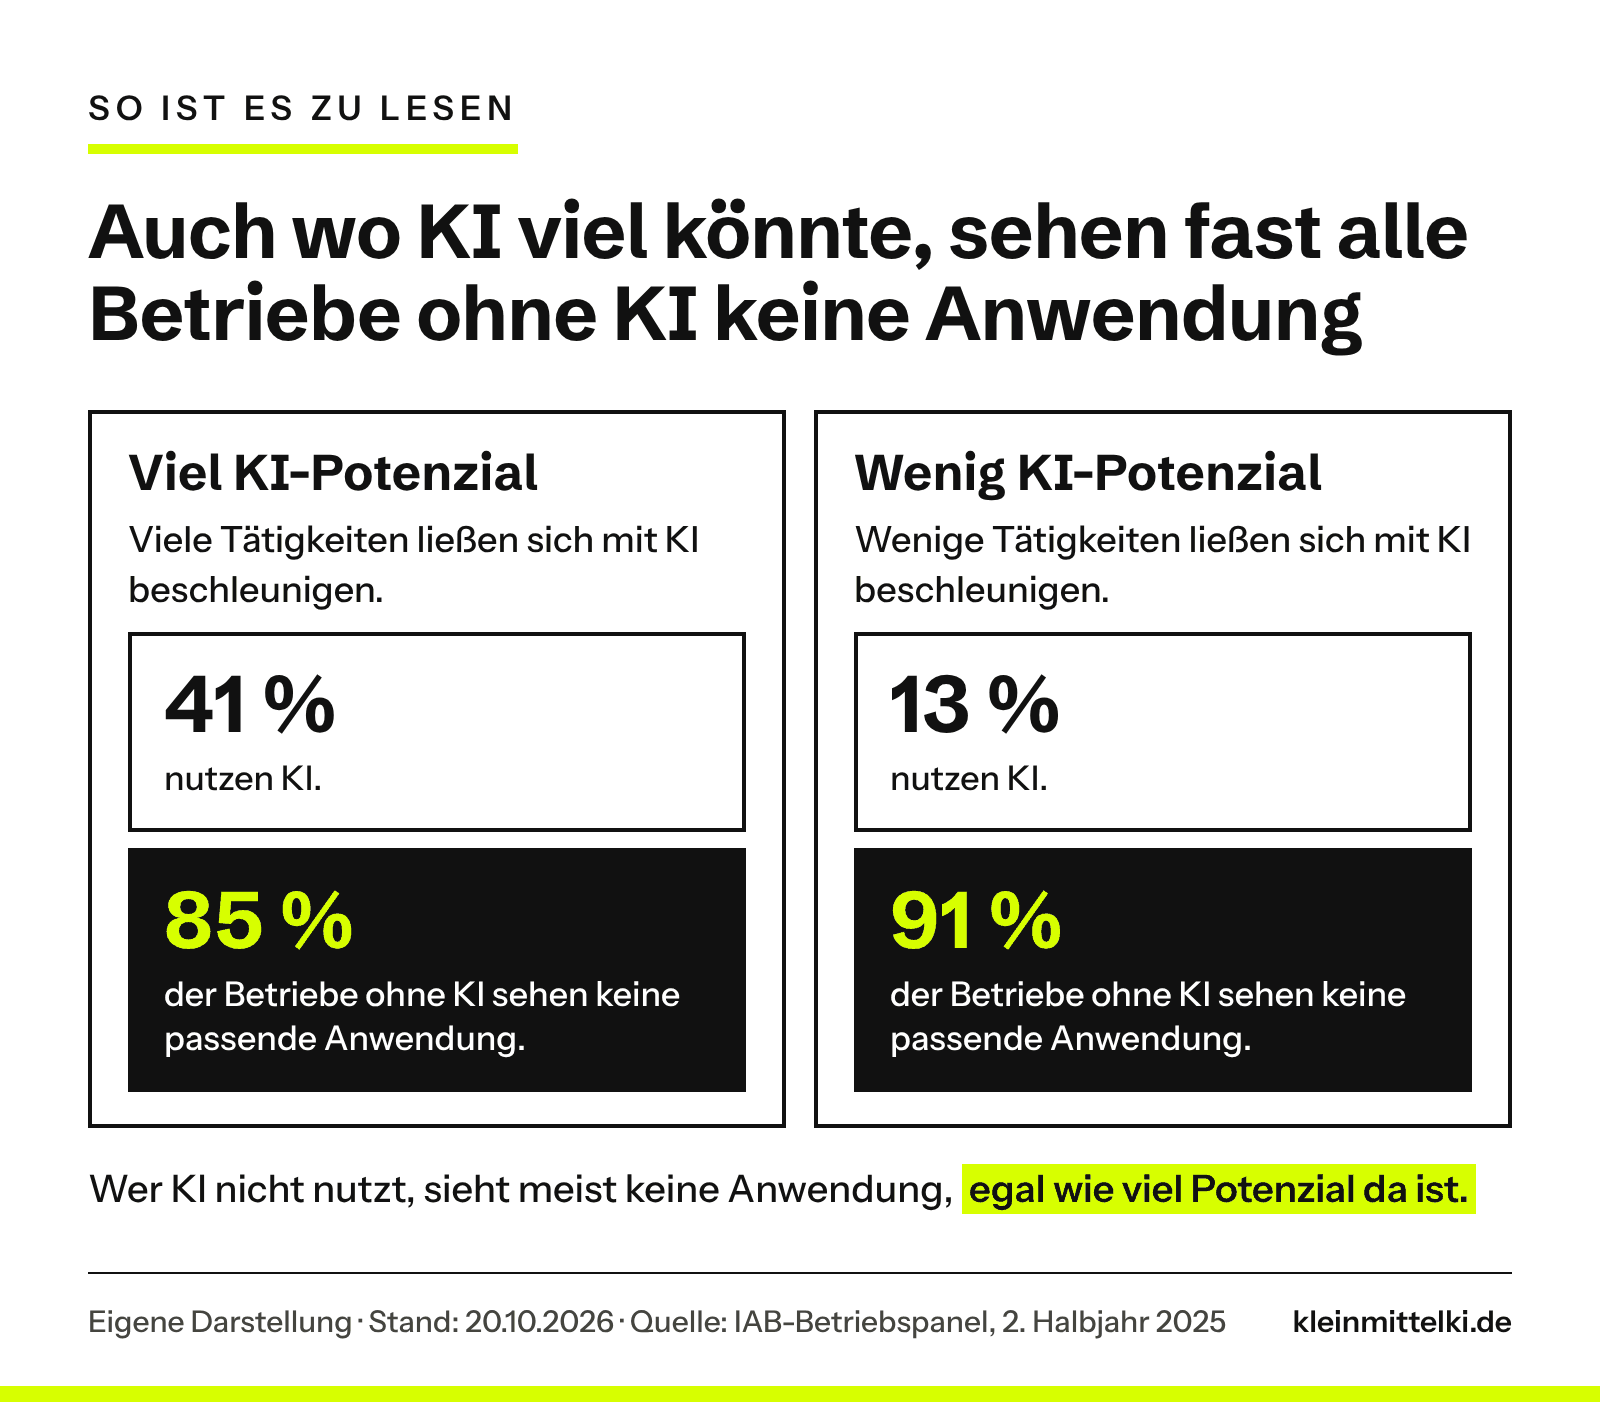
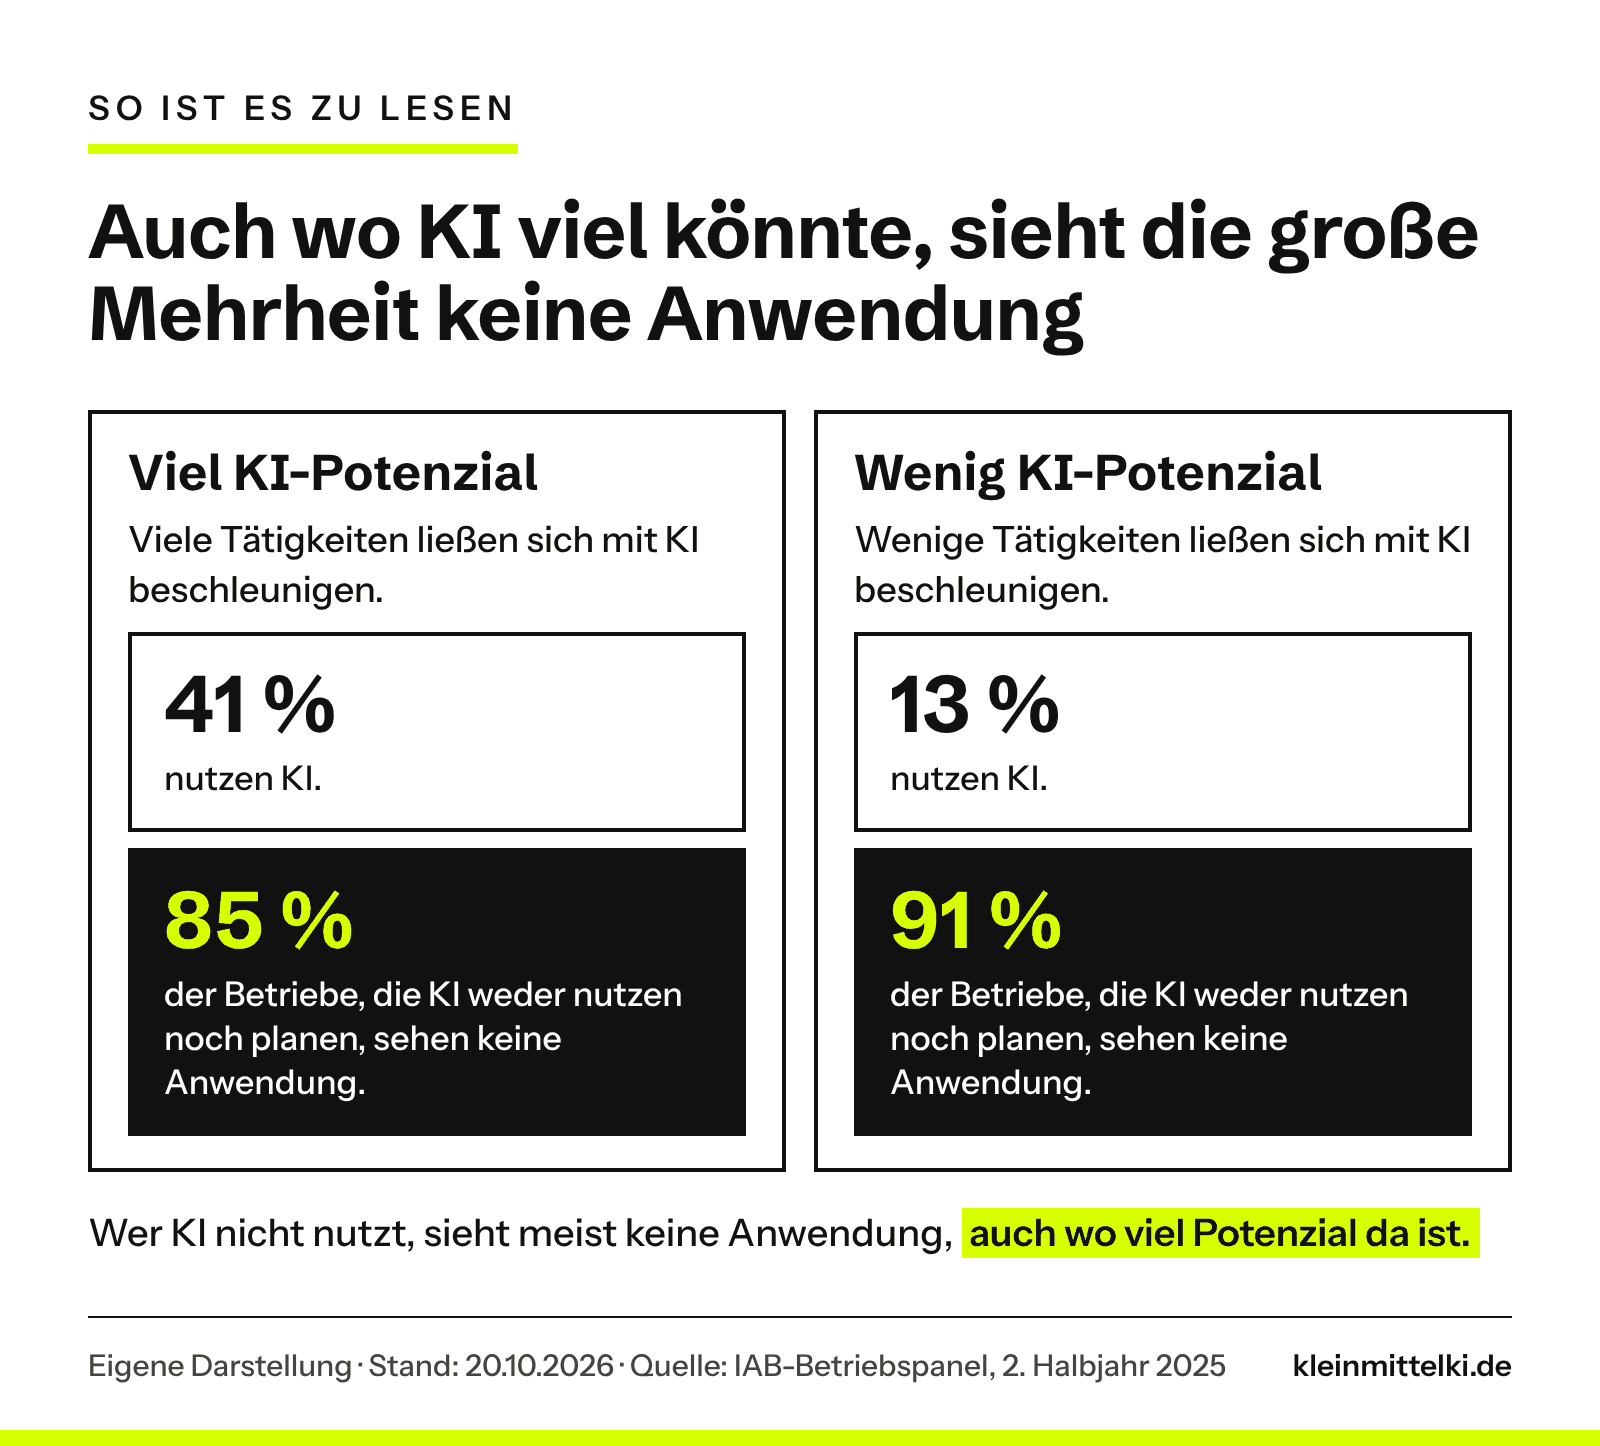
Chat 2026-11-09: B und Newsletter #6 Fassung 3 nach finaler Prüfung
Claude-Session: https://claude.ai/code/session_0145MfsdWdkAxq1HmRKV4KkA

Changed region(s): [[0.0312, 0.0613, 0.9375, 0.8894], [0.0625, 0.9201, 0.7812, 0.9508], [0.8125, 0.9201, 0.9375, 0.9508]]

diff --git a/entwuerfe/iab-betriebe-sehen-keine-ki-anwendung/g1.html b/entwuerfe/iab-betriebe-sehen-keine-ki-anwendung/g1.html
@@ -1,18 +1,18 @@
 <div class="g">
   <div class="g-kicker">So ist es zu lesen</div>
-  <h1 class="g-titel">Auch wo KI viel könnte, sehen fast alle Betriebe ohne KI keine Anwendung</h1>
+  <h1 class="g-titel">Auch wo KI viel könnte, sieht die große Mehrheit keine Anwendung</h1>
   <div class="g-raster">
     <div class="g-karte"><div class="g-karte-kopf"><h3>Viel KI-Potenzial</h3></div>
       <p>Viele Tätigkeiten ließen sich mit KI beschleunigen.</p>
       <div class="g-zahl"><b>41 %</b><span>nutzen KI.</span></div>
-      <div class="g-zahl g-zahl--dunkel"><b>85 %</b><span>der Betriebe ohne KI sehen keine passende Anwendung.</span></div>
+      <div class="g-zahl g-zahl--dunkel"><b>85 %</b><span>der Betriebe, die KI weder nutzen noch planen, sehen keine Anwendung.</span></div>
     </div>
     <div class="g-karte"><div class="g-karte-kopf"><h3>Wenig KI-Potenzial</h3></div>
       <p>Wenige Tätigkeiten ließen sich mit KI beschleunigen.</p>
       <div class="g-zahl"><b>13 %</b><span>nutzen KI.</span></div>
-      <div class="g-zahl g-zahl--dunkel"><b>91 %</b><span>der Betriebe ohne KI sehen keine passende Anwendung.</span></div>
+      <div class="g-zahl g-zahl--dunkel"><b>91 %</b><span>der Betriebe, die KI weder nutzen noch planen, sehen keine Anwendung.</span></div>
     </div>
   </div>
-  <p class="g-notiz">Wer KI nicht nutzt, sieht meist keine Anwendung, <mark>egal wie viel Potenzial da ist.</mark></p>
+  <p class="g-notiz">Wer KI nicht nutzt, sieht meist keine Anwendung, <mark>auch wo viel Potenzial da ist.</mark></p>
   <div class="g-fuss"><span>Eigene Darstellung · Stand: 20.10.2026 · Quelle: IAB-Betriebspanel, 2. Halbjahr 2025</span><b>kleinmittelki.de</b></div>
 </div>

diff --git a/redaktion/themenboard.md b/redaktion/themenboard.md
@@ -35,7 +35,7 @@ Daneben: `newsletter-vorschlag` (Sonntag per Mail an Till), `verworfen` (mit Gru
 - Braucht von Till: Einschätzung in 2–3 Sätzen oder Freigabe des Vorschlags
 - Vorschlag „Eine Zahl, genau gelesen“: zahl „88 %“ · text „der Betriebe ohne KI sehen dafür keine passende Anwendung.“ · genau „Gemeint sind nur Betriebe, die KI weder nutzen noch planen – im zweiten Halbjahr 2025 zwei Drittel aller Betriebe. Selbstauskunft. Quelle: IAB, Oktober 2026.“ · link: Beitrag nach Veröffentlichung. Ändern nur nach Freigabe (Code-Injection, nicht per API).
 - Reihenfolge: vor nicht-jedes-problem-braucht-ki veröffentlichen
-- Verlauf: (ältere Einträge: redaktion/verlauf/iab-betriebe-sehen-keine-ki-anwendung.md) 2026-11-02 Lauf 12:47: als B erinnert (Mail 1a19be3873ddb3ea, Termin Do 5.11. 7:00) · 2026-11-05 Lauf 7:47: Do 5.11. ohne Freigabe verstrichen; im Briefing als B erinnert (Mail 1a1aa7c89c1cc391, „B ja“ = Do 12.11. 7:00) · 2026-11-09 Chat: Till will B diese Woche (Do 12.11.), versteht Grafik nicht → g1 neu als zwei Karten (viel/wenig Potenzial: nutzen KI / Betriebe ohne KI ohne Anwendung), Ghost-Entwurf aktualisiert; „B ja“ offen
+- Verlauf: (ältere Einträge: redaktion/verlauf/iab-betriebe-sehen-keine-ki-anwendung.md) 2026-11-05 Lauf 7:47: Do 5.11. ohne Freigabe verstrichen; im Briefing als B erinnert (Mail 1a1aa7c89c1cc391, „B ja“ = Do 12.11. 7:00) · 2026-11-09 Chat: Till will B diese Woche (Do 12.11.), versteht Grafik nicht → g1 neu als zwei Karten (viel/wenig Potenzial: nutzen KI / Betriebe ohne KI ohne Anwendung), Ghost-Entwurf aktualisiert; „B ja“ offen · 2026-11-09 Chat: finale Prüfung – Grafik-Aussagen abgeschwächt („große Mehrheit“, „auch wo“), Bezugsgruppe „weder nutzen noch planen“, „gut ein Jahr alt“; Original (idw/iab) in dieser Sitzung nicht abrufbar, Werte aus quellen.md (gelesen 23.10.); Termin Di 10.11. 7:00; „B ja“ offen
 
 ### nicht-jedes-problem-braucht-ki
 - Status: veroeffentlicht
@@ -248,7 +248,7 @@ Daneben: `newsletter-vorschlag` (Sonntag per Mail an Till), `verworfen` (mit Gru
 - Versand: Dienstag 10.11.2026, 7:05 (erst nach Tills „N ja“)
 - Inhalt: 01 powerpoint-mit-ki-im-eigenen-design (live seit 06.11.) · 02 Zahl „86 %“ (Anthropic Research 27.10.2026 – nimmt Board-Thema ki-agent-beeinflusst-entscheidungen vorweg) · 03 Gedanke. Recherche-Assistent auf Tills Wunsch raus (Chat 09.11.: ein „Selbst ausprobiert“ pro Woche)
 - Datei: entwuerfe/newsletter-2026-11-10/beitrag.md, Prüfung: pruefung.md
-- Verlauf: 2026-11-08 Lauf 7:47: Entwurf (Autor), Prüfer Runde 1 nicht bestanden (Rat in 03/04 widersprach der Quelle, „verdeckt“ ungenau), Runde 2 bestanden · 2026-11-08 Lauf 7:47: Entwurf in Ghost (Vorschau https://www.kleinmittelki.de/p/bd6a2494-782d-4723-84e9-d3047e17980e/), Testmail fehlgeschlagen (email_previews liefert HTML), Begleitzettel Fassung 1 gemailt (1a1b9f35f46a94b7, Fingerabdruck 6d556a28…) · 2026-11-09 Chat: Till: nur ein „Selbst ausprobiert“ pro Woche → Fassung 2 ohne Recherche-Assistent, Prüfer bestanden, Ghost-Entwurf aktualisiert (Fingerabdruck 978bea7c…), Testmail wieder fehlgeschlagen (email_previews liefert HTML); im Chat vorgelegt, „N ja“ offen
+- Verlauf: (ältere Einträge: redaktion/verlauf/newsletter-2026-11-10.md) 2026-11-08 Lauf 7:47: Entwurf in Ghost (Vorschau https://www.kleinmittelki.de/p/bd6a2494-782d-4723-84e9-d3047e17980e/), Testmail fehlgeschlagen (email_previews liefert HTML), Begleitzettel Fassung 1 gemailt (1a1b9f35f46a94b7, Fingerabdruck 6d556a28…) · 2026-11-09 Chat: Till: nur ein „Selbst ausprobiert“ pro Woche → Fassung 2 ohne Recherche-Assistent, Prüfer bestanden, Ghost-Entwurf aktualisiert (Fingerabdruck 978bea7c…), Testmail wieder fehlgeschlagen (email_previews liefert HTML); im Chat vorgelegt, „N ja“ offen · 2026-11-09 Chat: Fassung 3 auf Tills Wunsch (01 PPT, 02 Aktuell eingeordnet: IAB), Prüfer: Titel und Gedanke korrigiert, Ghost aktualisiert (978→335a848f…), Testmail fehlgeschlagen; „N ja“ offen
 
 ### newsletter-2026-11-03
 - Status: versendet

diff --git a/entwuerfe/iab-betriebe-sehen-keine-ki-anwendung/beitrag.md b/entwuerfe/iab-betriebe-sehen-keine-ki-anwendung/beitrag.md
@@ -15,9 +15,9 @@ INTERN – vor Veröffentlichung entfernen: Thema ist Tills Idee (Chat 23.10.202
 
 Das Institut für Arbeitsmarkt- und Berufsforschung (IAB) hat am 20. Oktober 2026 ausgewertet, warum Betriebe auf KI verzichten. Grundlage ist das IAB-Betriebspanel aus dem zweiten Halbjahr 2025. Damals nutzten zwei Drittel der Betriebe keine KI und planten es auch nicht. 88 Prozent von ihnen sahen keine passenden Anwendungsmöglichkeiten. Fehlendes Wissen, fehlende Fachkräfte, inkompatible IT oder unzureichende Daten nannte jeweils nur rund ein Drittel. Auffällig: Selbst wo KI viele Tätigkeiten im Betrieb beschleunigen könnte, sehen 85 Prozent der Nichtnutzer keinen Einsatzzweck.
 
-![Schaubild mit zwei Karten: Betriebe mit viel KI-Potenzial: 41 Prozent nutzen KI, 85 Prozent der Betriebe ohne KI sehen keine passende Anwendung. Betriebe mit wenig KI-Potenzial: 13 Prozent nutzen KI, 91 Prozent der Betriebe ohne KI sehen keine passende Anwendung.](kmk-iab-ki-potenzial-g1.png "IAB-Betriebspanel, zweites Halbjahr 2025, veröffentlicht am 20.10.2026. Die Nutzungsanteile beziehen sich auf alle Betriebe einer Gruppe, die Anteile ohne passende Anwendung nur auf die Betriebe ohne KI. Potenzial meint, wie stark KI die im Betrieb ausgeübten Tätigkeiten beschleunigen könnte.")
+![Schaubild mit zwei Karten: Betriebe mit viel KI-Potenzial: 41 Prozent nutzen KI, 85 Prozent der Betriebe, die KI weder nutzen noch planen, sehen keine passende Anwendung. Betriebe mit wenig KI-Potenzial: 13 Prozent nutzen KI, 91 Prozent der Betriebe, die KI weder nutzen noch planen, sehen keine passende Anwendung.](kmk-iab-ki-potenzial-g1.png "IAB-Betriebspanel, zweites Halbjahr 2025, veröffentlicht am 20.10.2026. Die Nutzungsanteile beziehen sich auf alle Betriebe einer Gruppe, die Anteile ohne passende Anwendung nur auf die Betriebe, die KI weder nutzen noch planen. Potenzial meint, wie stark KI die im Betrieb ausgeübten Tätigkeiten beschleunigen könnte.")
 
-Was die Grafik zeigt: Wo KI viel könnte, nutzen sie deutlich mehr Betriebe. Unter den übrigen sieht aber fast jeder keine Anwendung, egal wie groß das Potenzial ist.
+Was die Grafik zeigt: Wo KI viel könnte, nutzen sie deutlich mehr Betriebe. Von den Betrieben, die KI weder nutzen noch planen, sieht aber die große Mehrheit keine Anwendung, auch wo das Potenzial groß ist.
 
 ## Meine Einordnung
 

diff --git a/redaktion/fahrplan.md b/redaktion/fahrplan.md
@@ -32,7 +32,7 @@ Wer etwas einträgt oder verschiebt, pflegt diese Tabelle. Status: `eingeplant` 
 | Di 03.11. 7:00 | nur Newsletter #5 (7:05); kein Hauptbeitrag (Till, Chat 02.11. abends: „wir lassen es so“) | Newsletter in Ghost eingeplant 7:05 (Lauf 02.11. 12:47); Newsletter versendet (Index, Lauf 03.11. 7:47); ki-recherche-assistent-selbstversuch wird am 03.11. mit Till nochmals reviewt, Termin danach |
 | Do 05.11. 7:00 | – (Kandidat B iab-betriebe-sehen-keine-ki-anwendung ohne Freigabe) | leer geblieben (keine Freigabe) |
 | Fr 06.11. 10:06 (Ausnahme, Till selbst) | powerpoint-mit-ki-im-eigenen-design („Dreimal dieselbe Präsentation mit KI …“) | von Till direkt in Ghost veröffentlicht (Index, Lauf 08.11. 7:47); außerhalb des Takts, zählt für KW 45 |
-| Di 10.11. 7:00 | kein Hauptbeitrag; nur Newsletter #6 (7:05, Fassung 2: Präsentations-Test) – Recherche-Assistent auf nächste Woche (Till, Chat 09.11.) | Newsletter wartet-auf-till (N) |
-| Do 12.11. 7:00 | Kandidat: iab-betriebe-sehen-keine-ki-anwendung | wartet-auf-till (B) |
+| Di 10.11. 7:00 | Kandidat: iab-betriebe-sehen-keine-ki-anwendung (B, auf Tills Wunsch vorgezogen, Chat 09.11.) + Newsletter #6 (7:05, Fassung 3) | wartet-auf-till (B, N) |
+| Do 12.11. 7:00 | – (B auf Di 10.11. vorgezogen) | frei |
 | Di 17.11. 7:00 | Kandidat: ki-recherche-assistent-selbstversuch (+ Newsletter #7 mit „Selbst ausprobiert“) – Review mit Till offen | wartet-auf-till (A) |
 | Do 19.11. 7:00 | – | frei |

diff --git a/entwuerfe/newsletter-2026-11-10/beitrag.md b/entwuerfe/newsletter-2026-11-10/beitrag.md
@@ -26,7 +26,7 @@ Im Beitrag stehen alle Folien zum Durchklicken, ein Design-Steckbrief und ein Au
 
 Das IAB hat ausgewertet, warum Betriebe auf KI verzichten. Im zweiten Halbjahr 2025 nutzten zwei Drittel der Betriebe keine KI und planten es auch nicht. 88 Prozent von ihnen sahen keine passende Anwendung. Fehlendes Wissen oder fehlende Fachkräfte nannte jeweils nur rund ein Drittel.
 
-Auffällig: Selbst wo KI viele Tätigkeiten beschleunigen könnte, sehen 85 Prozent der Betriebe ohne KI keinen Einsatzzweck. Zwei Grenzen gehören dazu: Das IAB hat geschätzt, was sich beschleunigen ließe, nicht, ob es sich rechnet. Und die Befragung ist ein Jahr alt.
+Auffällig: Selbst wo KI viele Tätigkeiten beschleunigen könnte, sehen 85 Prozent der Betriebe ohne KI und ohne Pläne dafür keinen Einsatzzweck. Zwei Grenzen gehören dazu: Das IAB hat geschätzt, was sich beschleunigen ließe, nicht, ob es sich rechnet. Und die Befragung ist ein Jahr alt.
 
 Im Beitrag steht, warum der Einstieg selten im Kerngeschäft liegt, sondern bei Anfragen, Angeboten und Rückfragen. Dazu ein Beispiel aus einer Bäckerei mit drei Filialen und ein einfacher Test für eine Woche.
 

diff --git a/redaktion/berichte/2026-11-09.md b/redaktion/berichte/2026-11-09.md
@@ -10,3 +10,5 @@ Till (Chat): nur ein „Selbst ausprobiert“ pro Woche. Newsletter #6 als Fassu
 `FEHLER: Ghost antwortet 200 auf POST email_previews/posts/6af01d6a2758a80001ce74b2/ ohne JSON (Content-Type text/html; charset=utf-8): <!DOCTYPE html> …`
 
 Chat: B (iab) Grafik g1 neu (zwei Karten), Ghost-Entwurf aktualisiert. grafik.py lief nur mit Playwright per pip und executable_path /opt/pw-browsers/chromium (Umgebung).
+
+Chat: Finale Prüfungen B und Newsletter Fassung 3 (beide Runde 1 nicht bestanden, korrigiert). Newsletter-Testmail erneut fehlgeschlagen (gleicher Fehler). idw-online.de/iab.de/iab-forum.de nicht erreichbar (Netz).

diff --git a/redaktion/verlauf/iab-betriebe-sehen-keine-ki-anwendung.md b/redaktion/verlauf/iab-betriebe-sehen-keine-ki-anwendung.md
@@ -5,3 +5,4 @@
 - 2026-10-23 Chat: Till „Ja“ → freigegeben · Autor/Grafik/Prüfung im Chat-Lauf, Einzelwerte aus Zweitverwertung bewusst weggelassen → geprueft (Sofortstart Ghost-Lauf blockiert, nächster regulärer Lauf So 7:47)
 - 2026-10-24 Chat: Till will neuen Titel, wählt „Fast 90 Prozent … an der falschen Stelle.“ → Titel, Teaser (wiederholte sonst die Überschrift) und Vorschaubild neu
 - 2026-10-25 Ghost-Lauf (7:47): Entwurf in Ghost angelegt, Vorschau: https://www.kleinmittelki.de/p/49d77d59-3984-4501-99d4-d71e1b0198c1/
+- 2026-11-02 Lauf 12:47: als B erinnert (Mail 1a19be3873ddb3ea, Termin Do 5.11. 7:00)

diff --git a/redaktion/verlauf/newsletter-2026-11-10.md b/redaktion/verlauf/newsletter-2026-11-10.md
@@ -1,0 +1,5 @@
+# Verlauf newsletter-2026-11-10
+
+Ältere Einträge aus dem Themenboard, wörtlich (nichts gelöscht).
+
+- 2026-11-08 Lauf 7:47: Entwurf (Autor), Prüfer Runde 1 nicht bestanden (Rat in 03/04 widersprach der Quelle, „verdeckt“ ungenau), Runde 2 bestanden
